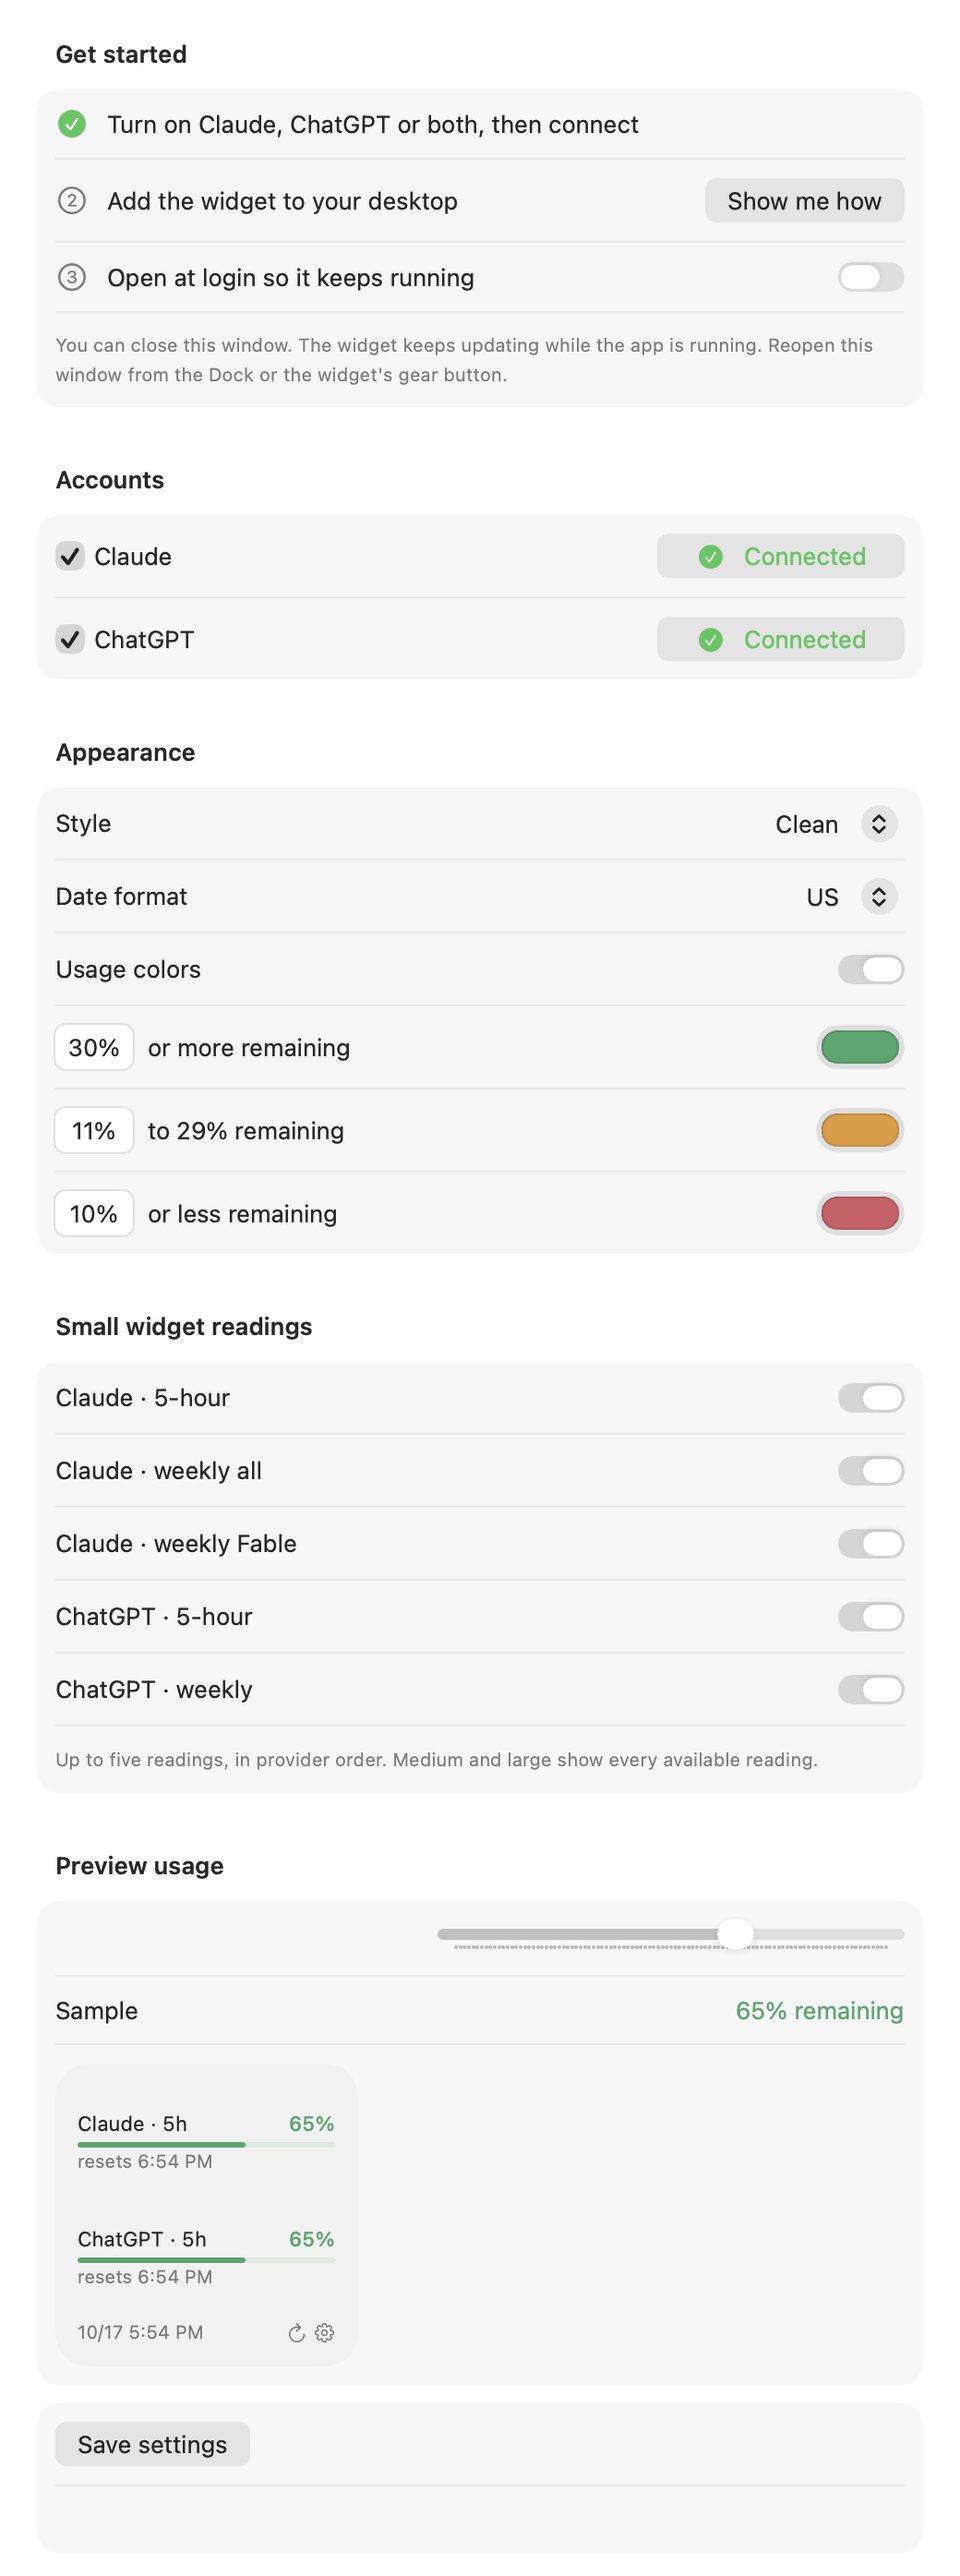
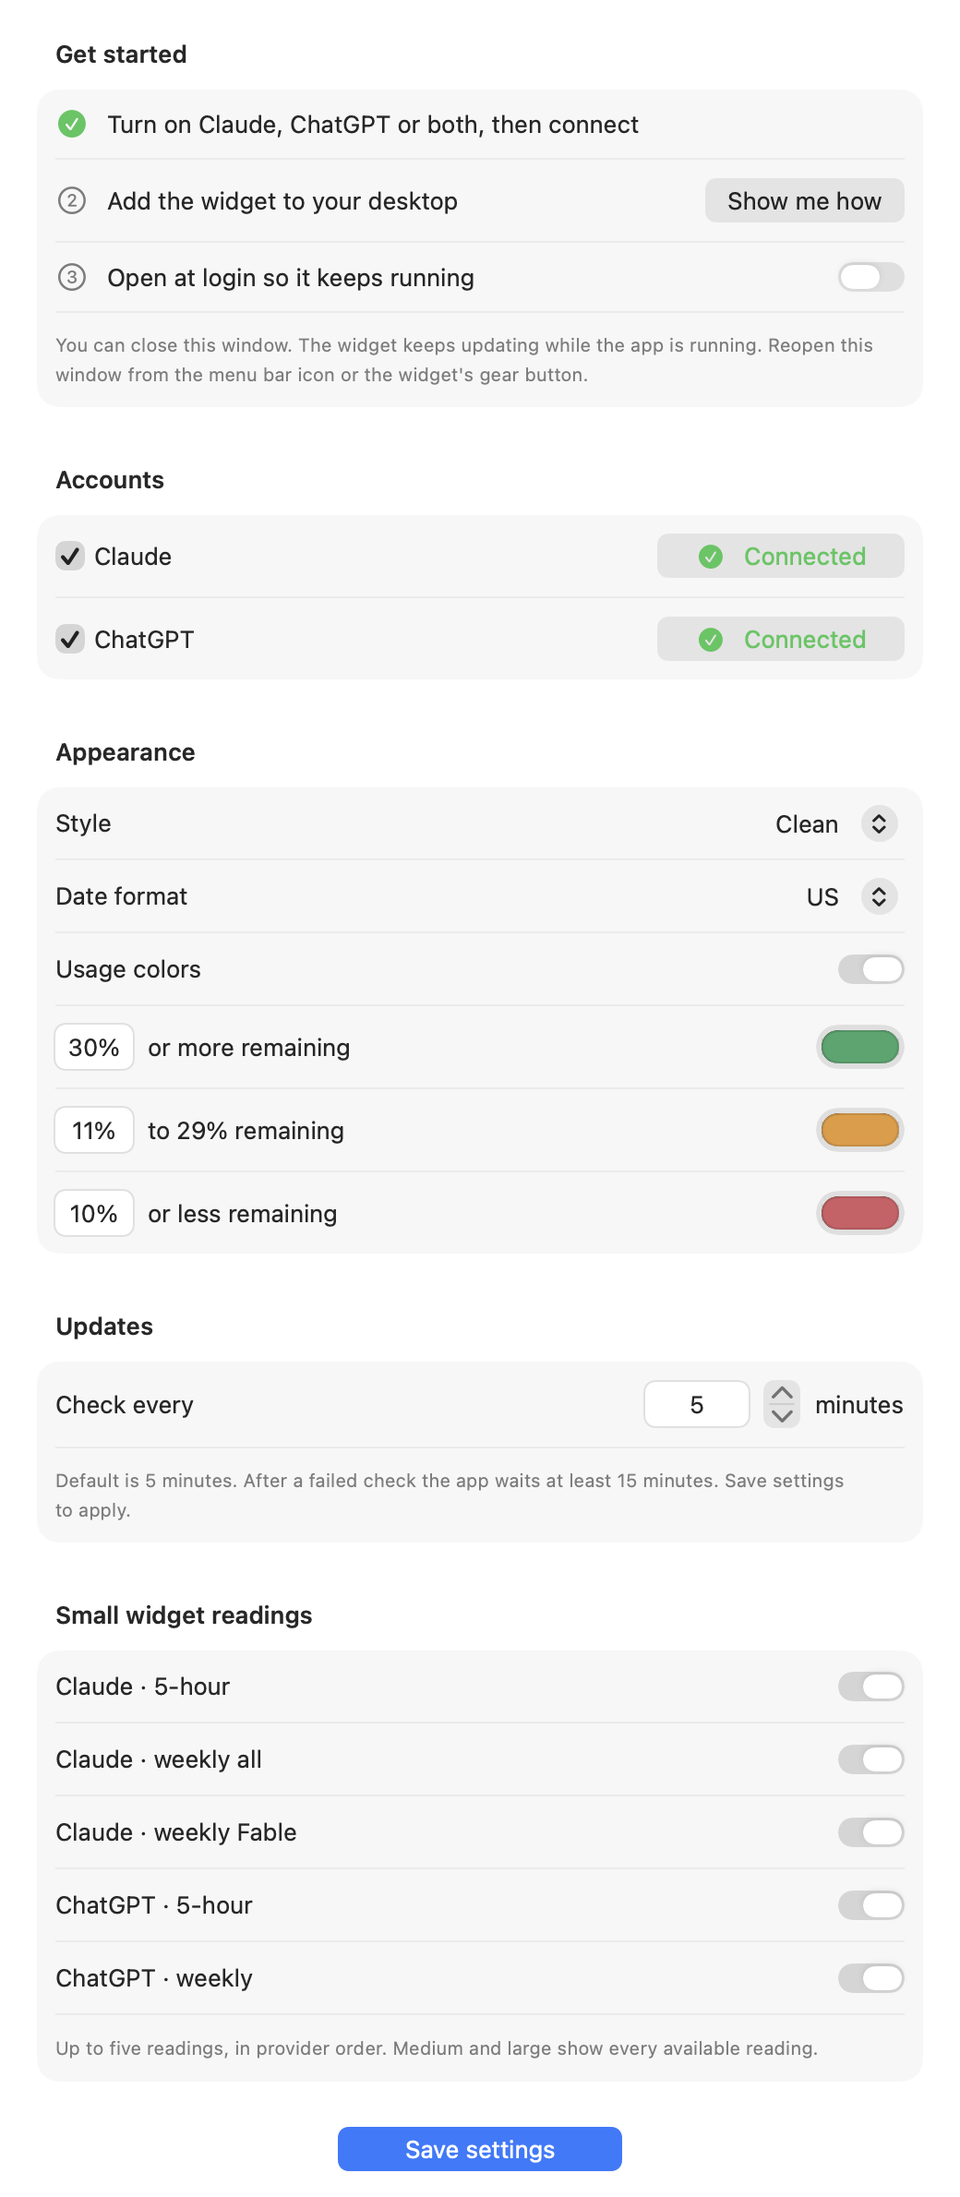
Live AI Usage Widget 1.0.0

diff --git a/Helper/Reader.swift b/Helper/Reader.swift
@@ -138,7 +138,7 @@ enum UsageReader {
     static func codex(directory: URL, binary: String? = nil, timeout: Double = 15) throws -> [String: Any] {
         let child = try ChildProcess(binary: binary ?? find("codex"), arguments: ["app-server", "--listen", "stdio://"], directory: directory.path)
         defer { child.stop() }
-        try child.sendJSON(["id": 0, "method": "initialize", "params": ["clientInfo": ["name": "live_ai_usage_widget", "title": "Live AI Usage Widget", "version": "0.3.1"]]])
+        try child.sendJSON(["id": 0, "method": "initialize", "params": ["clientInfo": ["name": "live_ai_usage_widget", "title": "Live AI Usage Widget", "version": "1.0.0"]]])
         let start = ProcessInfo.processInfo.systemUptime
         var pending = Data(), total = 0, initialized = false
         while ProcessInfo.processInfo.systemUptime - start < timeout {

diff --git a/scripts/build.py b/scripts/build.py
@@ -34,8 +34,8 @@ def main():
     for folder, executable, bundle, kind in [(app, 'UsageWidget', args.bundle_id, 'APPL'),
                                             (extension, 'UsageWidgetExtension', args.bundle_id + '.widget', 'XPC!')]:
         info = dict(CFBundleDisplayName='Live AI Usage Widget', CFBundleName='Live AI Usage Widget', CFBundleExecutable=executable,
-                    CFBundleIdentifier=bundle, CFBundlePackageType=kind, CFBundleVersion='9',
-                    CFBundleShortVersionString='0.3.1', LSMinimumSystemVersion='14.0', UsageAppGroup=group)
+                    CFBundleIdentifier=bundle, CFBundlePackageType=kind, CFBundleVersion='10',
+                    CFBundleShortVersionString='1.0.0', LSMinimumSystemVersion='14.0', UsageAppGroup=group)
         if kind == 'XPC!':
             info['NSExtension'] = {'NSExtensionPointIdentifier': 'com.apple.widgetkit-extension'}
         else:

diff --git a/scripts/package.py b/scripts/package.py
@@ -34,7 +34,7 @@ def main():
         contents[name] = data
     destination = ROOT / 'dist'
     destination.mkdir(exist_ok=True)
-    archive = destination / 'live-ai-usage-widget-0.3.1-source.zip'
+    archive = destination / 'live-ai-usage-widget-1.0.0-source.zip'
     with zipfile.ZipFile(archive, 'w', compression=zipfile.ZIP_DEFLATED) as output:
         for name, data in sorted(contents.items()):
             info = zipfile.ZipInfo('live-ai-usage-widget/' + name, date_time=(2026, 1, 1, 0, 0, 0))

diff --git a/README.md b/README.md
@@ -20,38 +20,50 @@ A macOS desktop widget that shows how much of your Claude Code and ChatGPT/Codex
 
 Pictures are drawn from the app's own views with made-up sample readings, not a real account.
 
-**0.3.1 beta.** Apple Silicon, macOS 14 or later. Signed download packaging is prepared; see the [validation record](docs/VALIDATION.md) for verified checks and remaining independent-Mac acceptance. This is not yet a broadly tested stable release.
+**Version 1.0.0.** Apple Silicon Macs, macOS 14 or later. Signed and notarized by Apple.
 
-## What works in this source
+## Download and install
 
-- Claude, ChatGPT/Codex, or both, with separate provider selection and your own official CLI sign-in.
-- Actual available limits; model-specific Claude windows are optional. ChatGPT here means Codex coding allowances, not all ChatGPT products or API billing.
-- Remaining percentages and a six-hour history of observed consumption rate; no invented activity. Missing coverage is a flat placeholder, distinguished in hover/accessibility text.
-- Whole traces use the same color as their percentages. Small widgets use extra space for reset information when fewer metrics are present.
-- US/European dates, color swatches and thresholds, muted refresh/settings links, optional opening at login.
-- Checks every five minutes by default while the app is running (adjustable in Updates, 1 to 1,440 minutes); failed providers wait at least fifteen minutes. Manual refresh respects this backoff. WidgetKit decides actual repaint timing.
-- Source timestamps remain unchanged after failures. Failure dates appear in the footer; cached values fade as they age.
+1. Open the [latest release](../../releases/latest) and download `Live-AI-Usage-Widget-1.0.0-macOS-arm64.zip`. Optionally compare it with the `.sha256` checksum file next to it.
+2. Double-click the ZIP to unzip it and drag **Live AI Usage Widget** into Applications.
+3. Open it. The setup window appears; follow its three Get started steps.
 
-Choose Clean bars, Solar rings or Trends history. Settings include per-metric small-widget selection and a Sign in button that opens the official tool in Terminal. There is no name/logo header or logo upload.
+The app has no Dock icon. It lives in the menu bar (a ring with a pulse line) with Settings, Check now and Quit. To update later, quit it from that menu, replace it in Applications and reopen it; your settings are kept.
+
+## Setup and settings
+
+**Get started** (hides itself once all three are done; the Setup help button brings it back)
+1. Turn on Claude, ChatGPT or both, then connect them.
+2. Add the widget to your desktop: right-click an empty spot on the desktop, choose Edit Widgets, search for Live AI Usage Widget, pick a size and drag it on. macOS doesn't let apps place widgets themselves. Show me how walks through it, and the step turns green once a widget is placed.
+3. Turn on Open at login so it keeps running.
+
+**Accounts.** Check Claude, ChatGPT or both. Connect opens a sheet with Sign in (runs the official sign-in in Terminal), Finish Claude setup and Check connection. "Connected" appears only after a fresh reading.
+
+**Appearance.** Style: Clean (default), Solar or Trends. Date format: US or European. Usage colors on or off, with three color bands you can recolor and re-threshold (30% or more remaining, 11–29%, 10% or less by default).
+
+**Updates.** Check every N minutes: 5 by default, any value from 1 to 1,440. After a failed check the app waits at least 15 minutes before trying again. Check now in the menu bar checks immediately.
+
+**Small widget readings.** Choose which readings the small widget shows (up to five). Medium and large show every reading.
+
+Save settings applies changes. You can close the window at any time; the widget keeps updating while the app runs.
+
+## What it shows
+
+- Remaining percentage for each limit your plan exposes: Claude's five-hour, weekly and any model-specific weekly windows; ChatGPT/Codex five-hour and weekly. ChatGPT here means Codex coding allowances, not other ChatGPT products or API billing.
+- When each limit resets, and when it was last updated. Readings fade as they age and failures show their date.
+- Trends style adds a six-hour history of how fast each limit is being used. Gaps are drawn flat; nothing is invented.
 
 ## Requirements
 
-- Apple Silicon Mac running macOS 14 or later. Intel builds are a build option but **not tested or supported for this preview**.
-- Apple command-line development tools for source builds.
-- No Python or development tools are needed to run the packaged app. Python 3.10+ and Xcode command-line tools are used only for source builds and tests.
-- Claude Code 2.1.301 or newer (`claude update`), and/or the official Codex CLI installed and signed into **your** account. A plan must expose usage limits through that tool. API-key-only accounts are not claimed to work.
-- To use the desktop widget from your own build: your own matching Apple signing team, certificate and app-group entitlement. A compile-only build does not establish that the widget can register or share storage.
+- Apple Silicon Mac running macOS 14 or later. Intel Macs are not supported.
+- Claude Code 2.1.301 or newer (`claude update`) and/or the official Codex CLI, installed and signed into **your** account. Your plan must expose usage limits through that tool. API-key-only accounts are not supported.
+- Nothing else. Python and developer tools are only needed to build from source.
 
-No provider binaries, Python runtime, credentials or private signing material are included. The distributed app contains the normal public Developer ID signature.
+No provider tools, credentials or private signing material are included.
 
-## Install the packaged beta
+## Known limits
 
-1. Download the macOS arm64 ZIP from a published GitHub release and compare its SHA-256 checksum with the accompanying checksum file.
-2. Unzip it and drag **Live AI Usage Widget.app** into Applications. Open it normally. A notarized build should pass macOS Gatekeeper; do not disable security checks.
-3. The setup window opens. Follow its three Get started steps (they hide once all are done; Setup help at the bottom brings them back): connect your accounts, add the widget to your desktop (right-click the desktop → Edit Widgets → search Live AI Usage Widget), and optionally turn on Open at login.
-4. For updates, quit this app normally, replace it in Applications, and reopen it. Settings are retained. There is no automatic updater.
-
-Version 0.2.1 installation, launch, settings, all three gallery previews, official Claude sign-in, real readings and small desktop-widget repaint passed on a second Apple Silicon Mac. Browser-downloaded quarantine acceptance, reboot and natural credential renewal remain unverified.
+Tested on two Apple Silicon Macs with real Claude and ChatGPT accounts. Not yet tested: installing as a brand-new macOS user, reboots and sleep over several days, sign-ins renewing on their own over time, and revoked sign-ins. See [release checks](docs/RELEASE-CHECKLIST.md).
 
 ## Build and test
 
@@ -76,9 +88,9 @@ Replace the example values. Configure the app group to match `TEAMID.BUNDLEID` i
 
 1. Install the provider's official command-line tool using its own instructions. Finish its first-run setup in Terminal.
 2. Run `claude auth login` or `codex login` and complete the provider-owned authentication. Never paste credentials into this app.
-3. Open a properly signed build. In the setup window select the providers you want and save. Connect → Sign in launches the official login command in Terminal; Check connection reads usage after sign-in.
-4. Refresh. “Connected” appears only after a fresh successful usage reading. Authentication or usage rate limits can delay the next attempt by fifteen minutes.
-5. Add Live AI Usage Widget through macOS's widget gallery (the window's Show me how button explains it; macOS doesn't let apps place widgets themselves). Enable “Open at login” if wanted. Keep the app running; closing its window is fine, quitting stops collection. The app has no Dock icon; it lives in the menu bar (Settings, Check now, Quit). Reopen the window from there or with the widget's gear button.
+3. Open the app. In the setup window select the providers you want and save. Connect → Sign in launches the official login command in Terminal; Check connection reads usage after sign-in.
+4. “Connected” appears only after a fresh successful usage reading. Sign-in or rate-limit failures can delay the next attempt by fifteen minutes.
+5. Add the widget and turn on Open at login as described above. Keep the app running; closing its window is fine, quitting stops checks.
 
 Before changing accounts, turn off that provider and save. This clears widget history and invalidates the collector cache. Then sign into the new account, enable the provider and save again. Account changes made outside this workflow cannot be reliably detected because the collector intentionally does not retain account identities.
 
@@ -88,11 +100,11 @@ Only percentages, reset times, observation/failure timestamps and a bounded six-
 
 Private collection state is stored under `~/Library/Application Support/BUNDLEID/`. Shared widget state and settings live in the signing team's app-group container. Source, attempt, publication and repaint times are different; see [architecture](docs/ARCHITECTURE.md).
 
-To uninstall: disable “Open at login,” quit this app normally, remove its desktop widget, and move the app to Trash. Optionally remove its own Application Support folder and app-group container after verifying their exact identifiers. Do not delete provider credential stores or uninstall their tools unless you separately want that. No independent LaunchAgent is installed.
+To uninstall: turn off Open at login, choose Quit from the menu bar icon, remove its desktop widget, and move the app to Trash. Optionally remove its own Application Support folder and app-group container after verifying their exact identifiers. Do not delete provider credential stores or uninstall their tools unless you separately want that. No independent LaunchAgent is installed.
 
-## Status and license
+## License
 
-See [release checks](docs/RELEASE-CHECKLIST.md) for what is verified versus pending. This is independent software, not an Anthropic or OpenAI product. Provider names identify compatibility only.
+This is independent software, not an Anthropic or OpenAI product. Provider names identify compatibility only.
 
 Released under the [MIT License](LICENSE). See [third-party notices](THIRD-PARTY-NOTICES.md).
 

diff --git a/docs/RELEASE-CHECKLIST.md b/docs/RELEASE-CHECKLIST.md
@@ -1,6 +1,6 @@
 # Release acceptance
 
-Version 0.3.1 beta. A signed, notarized Apple Silicon ZIP is prepared. Notarization establishes Apple's distribution check, not compatibility with every account or Mac.
+Version 1.0.0. A signed, notarized Apple Silicon ZIP is prepared. Notarization establishes Apple's distribution check, not compatibility with every account or Mac.
 
 ## Verified locally
 
@@ -14,7 +14,7 @@ Version 0.3.1 beta. A signed, notarized Apple Silicon ZIP is prepared. Notarizat
 - [x] Apple notarization Accepted, ticket stapled, signature verification and Gatekeeper acceptance.
 - [x] Versioned app ZIP and SHA-256 checksum; installation/update/uninstall instructions.
 
-## Beta/publication checks
+## Publication and follow-up checks
 
 - [x] Review the exact allowlisted source and app artifacts before upload.
 - [x] Create the repository (live-ai-usage-widget, private for now) and run its CI. Enable private vulnerability reporting if it is made public. Never publish a containing private project or its history.
@@ -23,9 +23,9 @@ Version 0.3.1 beta. A signed, notarized Apple Silicon ZIP is prepared. Notarizat
 - [ ] Verify US/EU dates, all styles/sizes, color controls, macOS full-color/tinted appearance and accessibility in installed widgets.
 - [ ] Test login-item enable/disable, reboot, sleep/wake, app relaunch, account switching and uninstall.
 - [ ] Observe natural credential renewal with fresh source timestamps, revoked authorization and network recovery. Existing-account success is not proof of renewal.
-- [ ] Record a supported provider-version/account-plan matrix. Intel is not supported by this beta artifact.
+- [ ] Record a supported provider-version/account-plan matrix. Intel is not supported.
 
-Keep these limits explicit in a beta release. Do not describe the app as universally installable or permanently authenticated.
+Keep these limits explicit in release notes and the README. Do not describe the app as universally installable or permanently authenticated.
 
 ## Maintainer distribution commands
 

diff --git a/docs/CLAUDE-HANDOFF.md b/docs/CLAUDE-HANDOFF.md
@@ -1,12 +1,12 @@
 # Maintainer handoff
 
-Current version: **0.3.1 beta (build 9), Apple Silicon, macOS 14+**, published as a GitHub prerelease. This repository is the whole project; it has no parent workspace.
+Current version: **1.0.0 (build 10), Apple Silicon, macOS 14+**, published as a full GitHub release. This repository is the whole project; it has no parent workspace.
 
 ## Current state
 
 - Name: Live AI Usage Widget. Bundle identifier `com.liveaiusagewidget.app`, widget `com.liveaiusagewidget.app.widget`, app group `TEAMID.com.liveaiusagewidget.app`, link scheme `live-ai-usage-widget://`.
-- The app opens one setup window (Get started steps, hidden once all are done with a Setup help link to show them, accounts, appearance, updates interval, small-widget readings; Setup help and Save settings centered at the bottom). There is no separate preview window. Clean is the default style.
[1 lines of base64/hex data omitted]
+- The app is a menu bar app (no Dock icon) with Settings, Check now and Quit. It opens one setup window (Get started steps, hidden once all are done with a Setup help link to show them, accounts, appearance, updates interval, small-widget readings; Setup help and Save settings centered at the bottom). There is no separate preview window. Clean is the default style.
[1 lines of base64/hex data omitted]
 - README pictures in `docs/images/` are drawn offscreen from the app's real views with sample data, then stripped of metadata. `scripts/package.py` refuses PNGs that carry metadata.
 
 Read `docs/VALIDATION.md` for dated evidence and `docs/RELEASE-CHECKLIST.md` for what is still untested.

diff --git a/CHANGELOG.md b/CHANGELOG.md
@@ -1,10 +1,13 @@
 # Changelog
 
-## 0.3.1 — beta
+## 1.0.0
+
+First full release. Includes everything below from 0.3.1 (never released separately):
+
 
 Get started hides itself once all three steps are done; a Setup help button beside Save settings brings it back. Both buttons are centered at the bottom. The Preview usage section is gone. The widget gallery now shows sample readings instead of "Waiting for readings", and its description is simply "Claude and ChatGPT usage remaining." The Show me how guide names the widget exactly and explains up front why this step is manual. New Updates setting: check every N minutes (default 5, any value from 1 to 1,440); failed checks still wait at least 15 minutes. The window opens scrolled to the top, and status messages are plain (no message when there is nothing to report). The app now lives in the menu bar (Settings, Check now, Quit) instead of the Dock; once fully set up it starts quietly there, for example at login.
 
-## 0.3.0 — beta
+## 0.3.0 — beta (prerelease)
 
 Renamed to Live AI Usage Widget (new bundle identifier and app group, so earlier settings do not carry over). The app now opens straight to one setup window with three Get started steps: connect accounts, add the widget to the desktop (with a Show me how guide and a check that turns green once a widget is placed) and Open at login. The separate preview window is gone. Clean is the default style. The widget's gear and refresh buttons work with the window closed.
 

diff --git a/docs/VALIDATION.md b/docs/VALIDATION.md
@@ -1,5 +1,9 @@
 # Validation record
 
+## 1.0.0 (build 10) — 10/17/2026
+
+Same app as 0.3.1 build 9 below with the version set to 1.0.0; re-signed and re-notarized (submission 0f38362b-858a-44d6-9b3e-06d62ba8d039 Accepted; app ZIP SHA-256 c9f9b66b046ee8e4c49e51138200128883eff2899b7a066d8466c5d60c9151df). Tests and stapled/Gatekeeper checks pass.
+
 ## 0.3.1 (build 9) — 10/17/2026
 
 Get started hides once all three steps are done (Setup help button beside Save settings brings it back), Preview usage removed, gallery shows sample readings, adjustable check interval (default 5 minutes). Tests (including new interval checks), signed build and notarization pass (submission 7be4e79c-d04d-4a75-afbd-4d679b5c944c Accepted). App ZIP SHA-256: d331e2ca5f086d2d19b17d771bac9c87e07a4f833b4fdb5a8c75cee825633c88. Installed fresh on the development Mac with earlier settings cleared for a first-run walkthrough. Remaining limits match 0.3.0 below.
